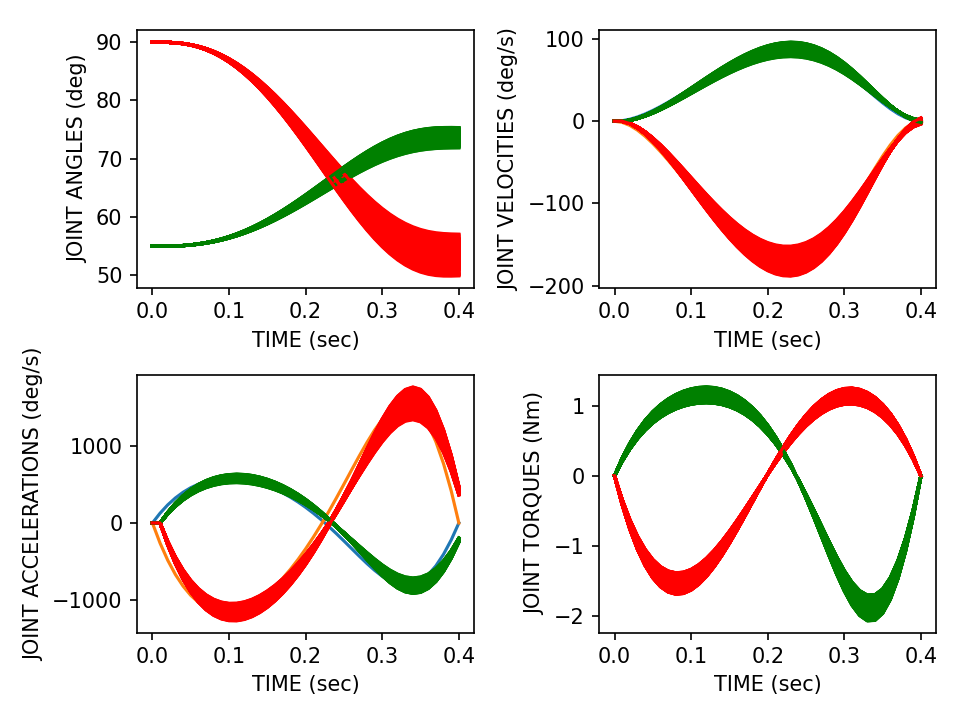
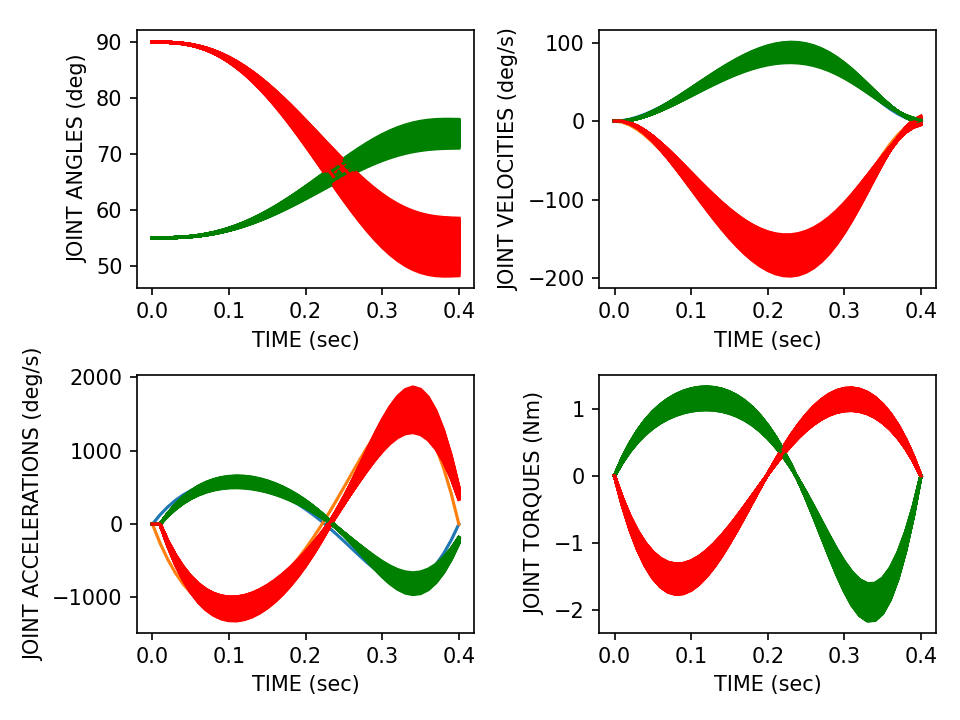
adjust

diff --git a/go.py b/go.py
@@ -25,7 +25,6 @@ A_sim, Ad_sim, Add_sim = forward_dynamics(A0, Ad0, Q, t, aparams)
 
 # make some plots
 import matplotlib.pyplot as plt
-%matplotlib
 
 f0 = plt.figure()
 ax = f0.add_subplot(2,2,1)
@@ -97,8 +96,8 @@ n_perts = 200
 for i in range(n_perts):
 	print("perturbation {0} of {1}".format(i+1,n_perts), end="\r")
 	QQ = np.copy(Q)
-	QQ[:,0] = QQ[:,0] * np.random.uniform(0.90, 1.10)
-	QQ[:,1] = QQ[:,1] * np.random.uniform(0.90, 1.10)
+	QQ[:,0] = QQ[:,0] * np.random.uniform(0.85, 1.15)
+	QQ[:,1] = QQ[:,1] * np.random.uniform(0.85, 1.15)
 	A0, Ad0 = A[0,:], Ad[0,:] # starting joint angles and velocities
 	A_sim, Ad_sim, Add_sim = forward_dynamics(A0, Ad0, QQ, t, aparams)
 	f1ax1.plot(t,A_sim[:,0]*180/np.pi,'g-')
